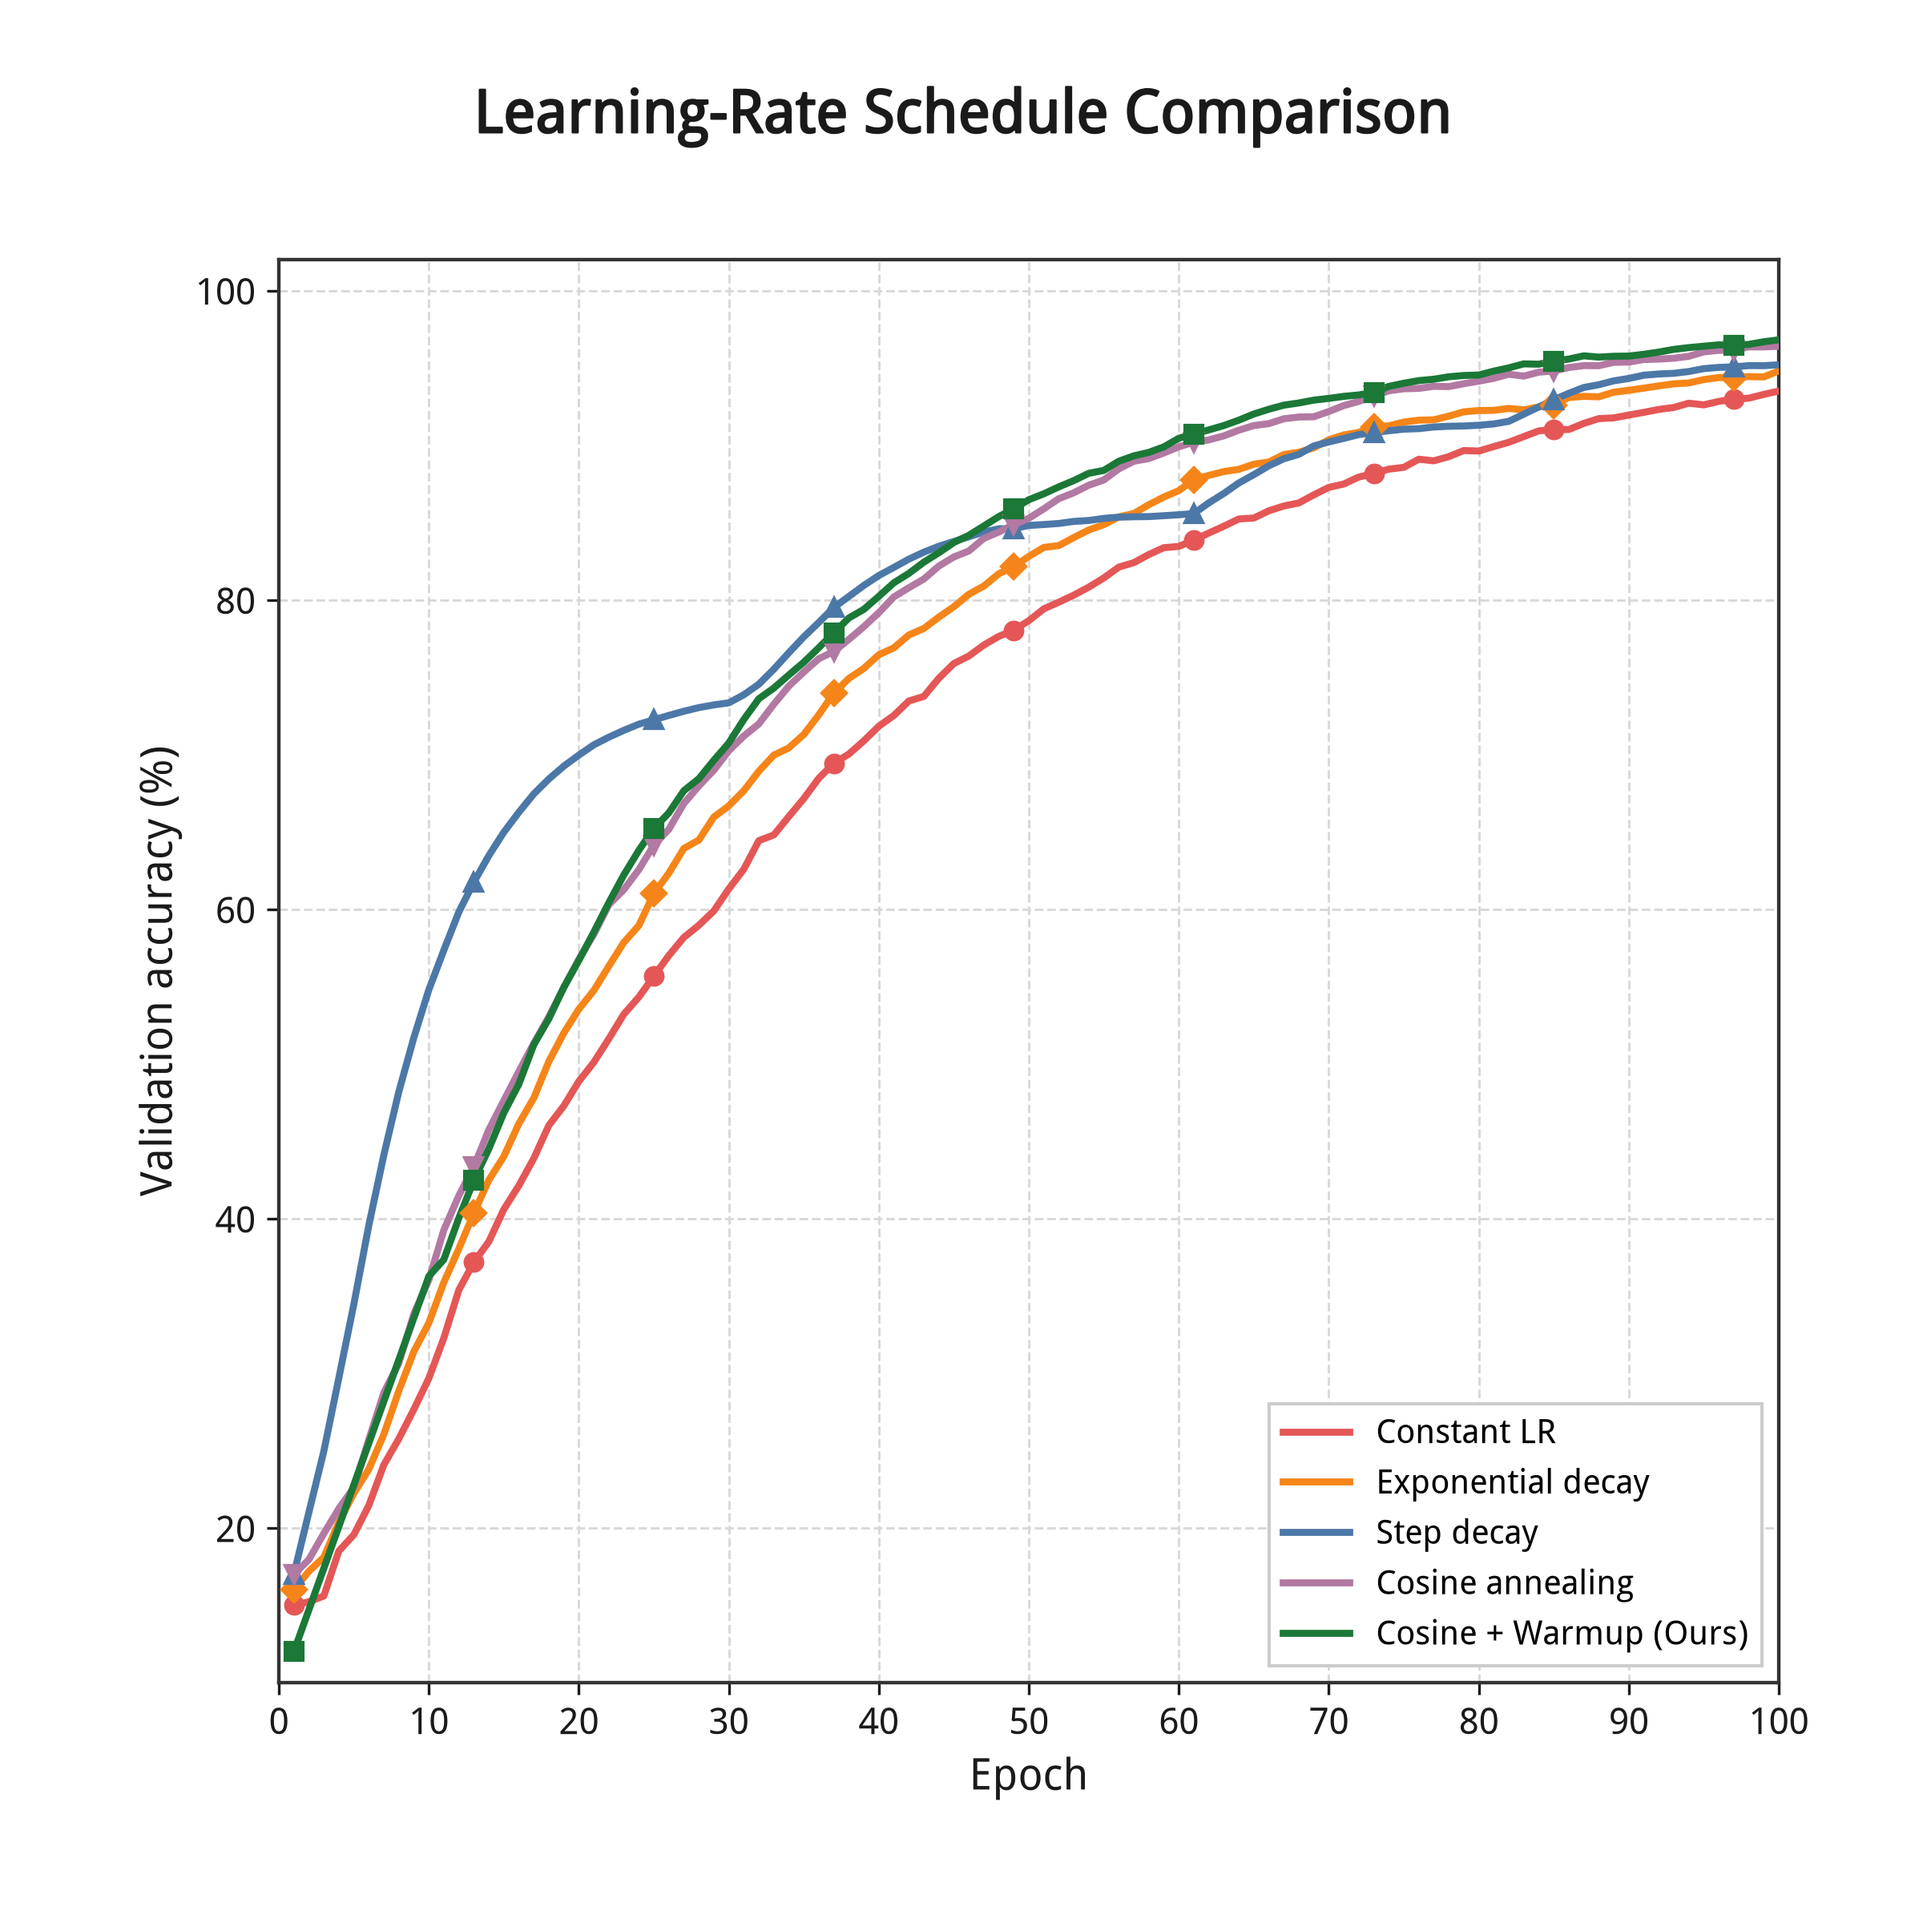
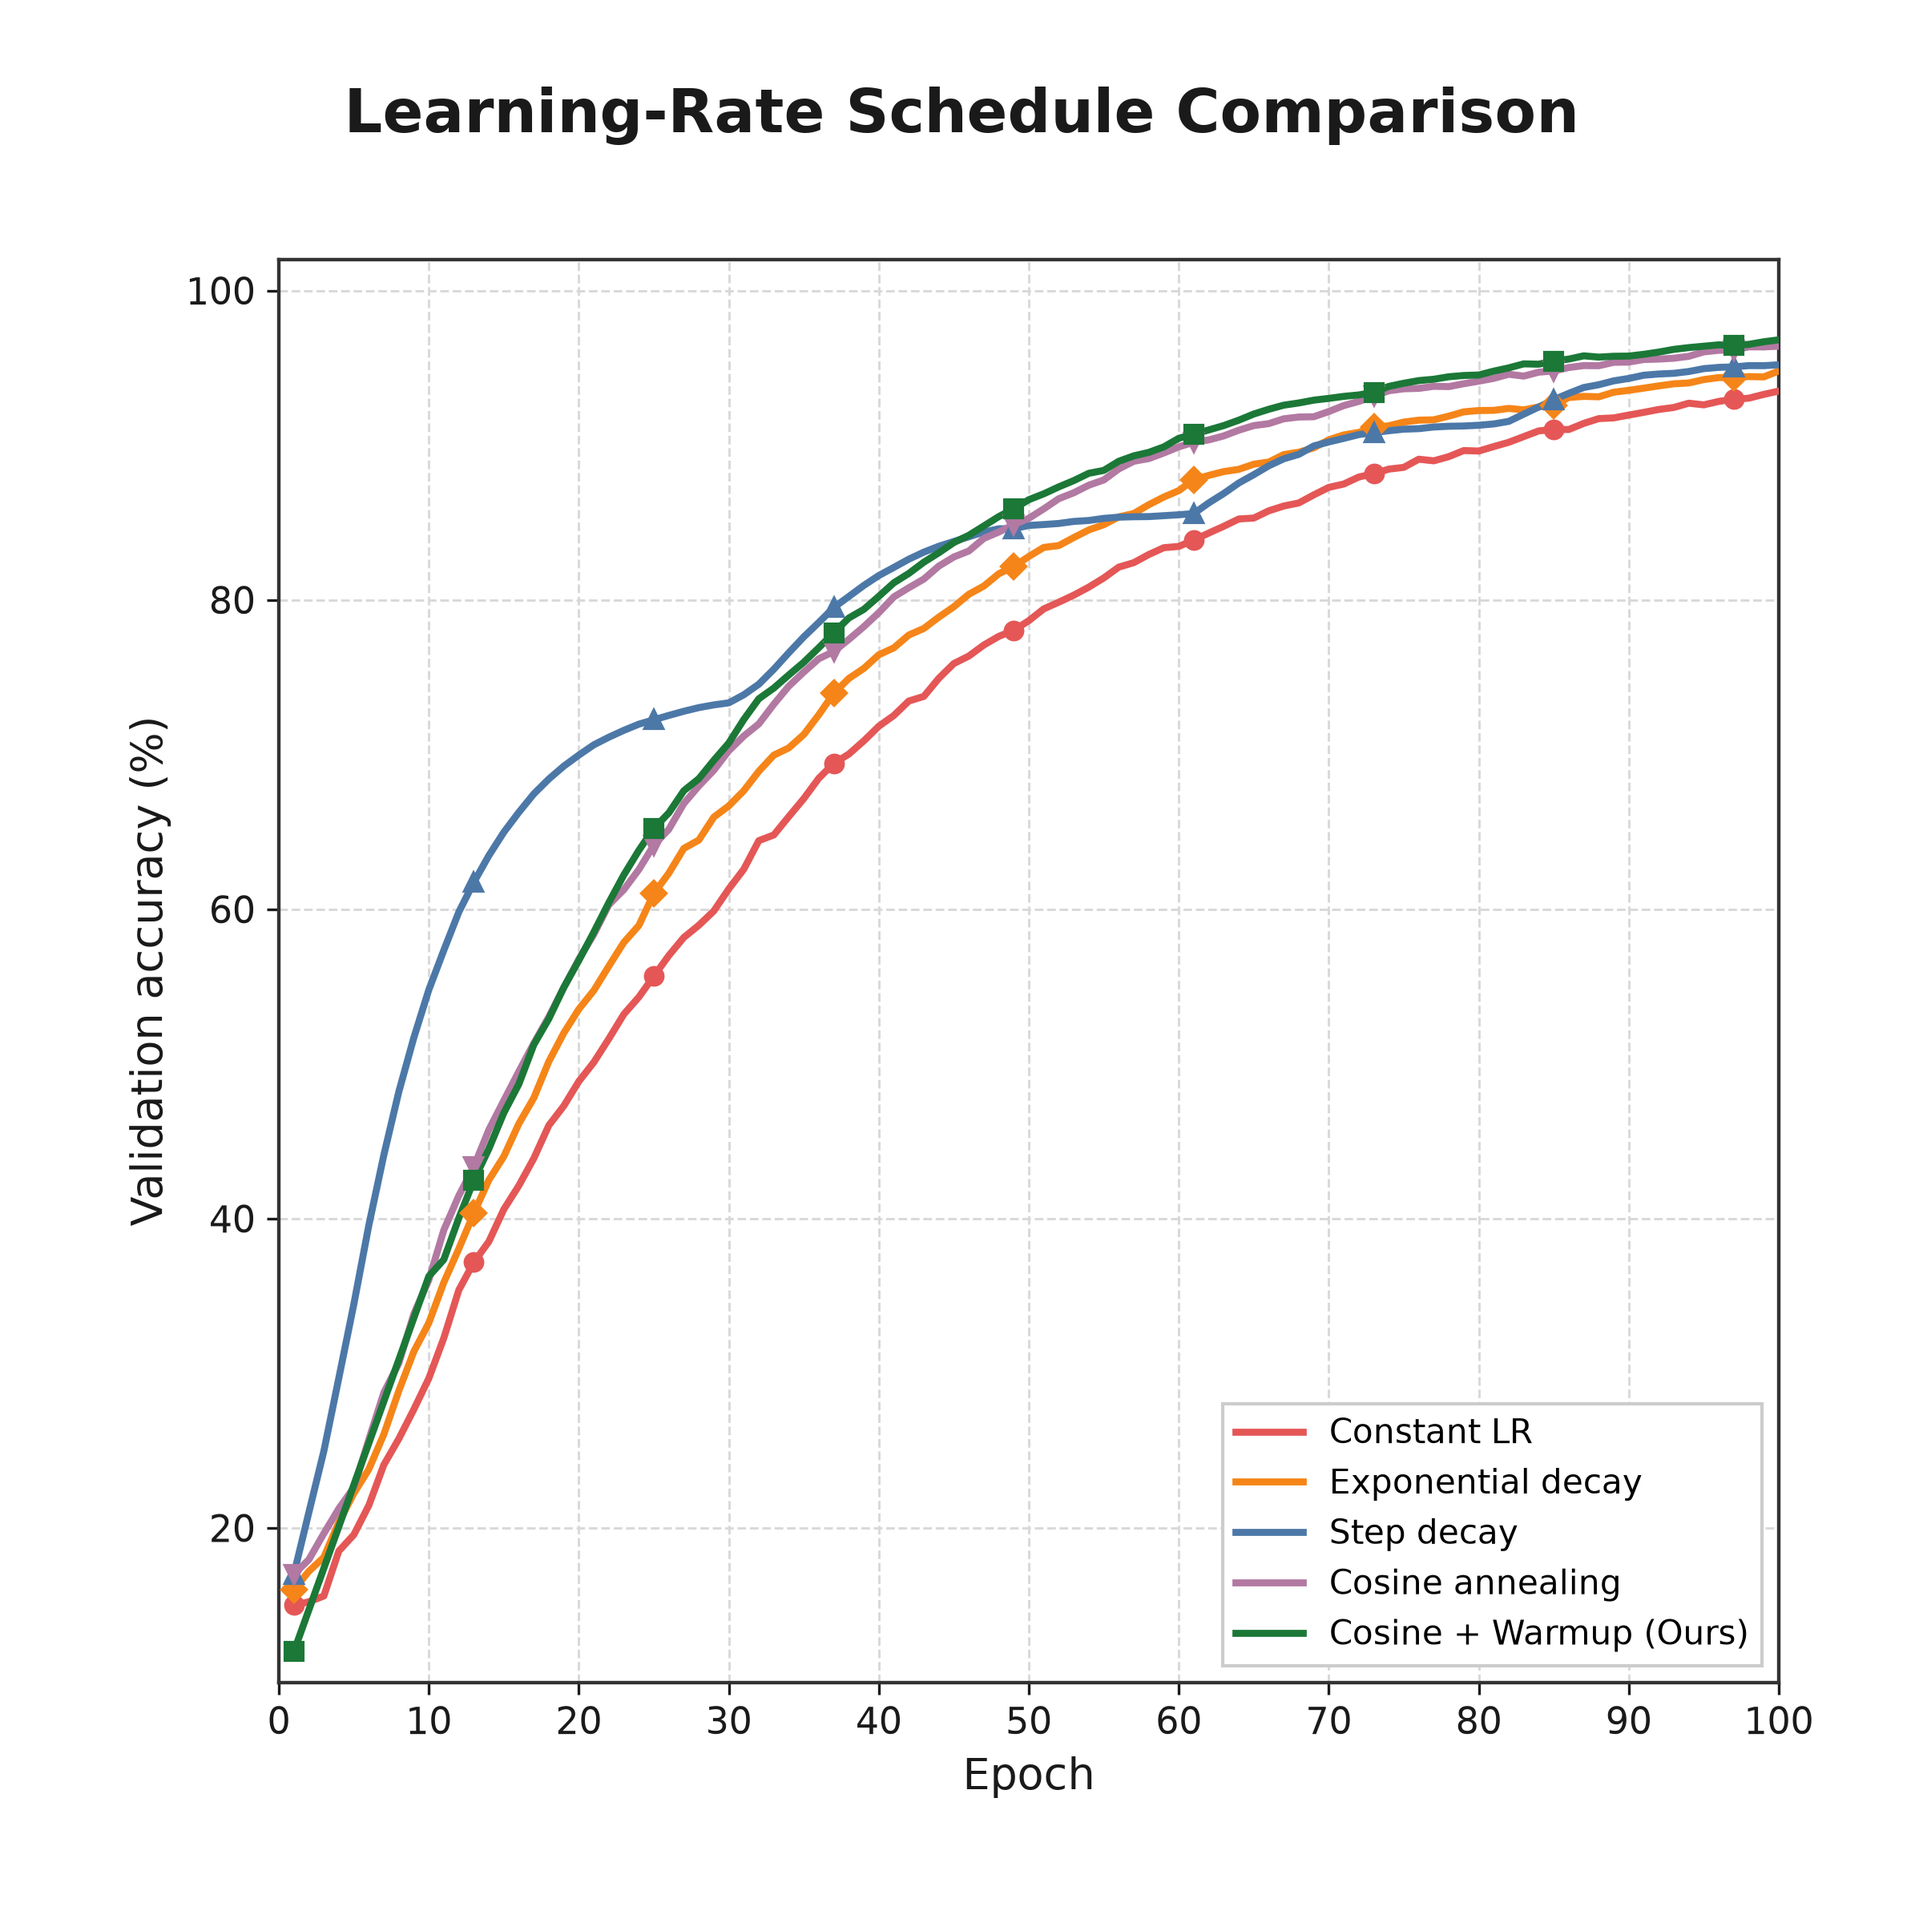
Render figure titles in English with DejaVu Sans
Switch on-figure text from a CJK font to DejaVu Sans so titles and
labels are English-only and use a true bold weight.

diff --git a/generate_figures.py b/generate_figures.py
@@ -1,9 +1,11 @@
 #!/usr/bin/env python3
-"""Generate a coherent IEEE/Chinese-journal style figure series for image classification.
+"""Generate a coherent IEEE-style figure series for image classification.
 
 The proposed model (ResNet-50 + CBAM, AdamW, cosine annealing with warmup,
 Mixup/CutMix, label smoothing) reaches 96.81% overall accuracy (1549/1600),
 which matches the confusion matrix and metric tables.
+
+All on-figure text is English.
 """
 
 from __future__ import annotations
@@ -12,8 +14,7 @@ from pathlib import Path
 
 import matplotlib.pyplot as plt
 import numpy as np
-from matplotlib import font_manager, patheffects
-from matplotlib.patches import FancyArrowPatch, FancyBboxPatch
+from matplotlib.patches import FancyBboxPatch
 from matplotlib.ticker import MultipleLocator
 
 # ---------------------------------------------------------------------------
@@ -25,9 +26,7 @@ OUT = ROOT / "figures"
 SIZE = 8.0  # inches → 1:1
 DPI = 300  # 2400 × 2400 px
 
-FONT_PATH = "/usr/share/fonts/truetype/wqy/wqy-microhei.ttc"
-font_manager.fontManager.addfont(FONT_PATH)
-FONT_NAME = font_manager.FontProperties(fname=FONT_PATH).get_name()
+FONT_NAME = "DejaVu Sans"
 
 # Academic palette (colorblind-friendly, print-safe)
 C_TRAIN = "#2166ac"
@@ -82,6 +81,7 @@ def configure_style() -> None:
     plt.rcParams.update(
         {
             "font.family": FONT_NAME,
+            "font.sans-serif": ["DejaVu Sans", "Liberation Sans", "Arial"],
             "font.size": 12,
             "axes.unicode_minus": False,
             "axes.linewidth": 1.05,
@@ -108,9 +108,7 @@ def configure_style() -> None:
 
 
 def add_title(fig, title: str) -> None:
-    """CJK fonts often lack a true bold face; a light stroke approximates bold."""
-    txt = fig.suptitle(title, fontsize=18, color=C_TEXT, y=0.955)
-    txt.set_path_effects([patheffects.withStroke(linewidth=0.55, foreground=C_TEXT)])
+    fig.suptitle(title, fontsize=18, fontweight="bold", color=C_TEXT, y=0.955, fontfamily="DejaVu Sans")
 
 
 def new_figure(title: str):
